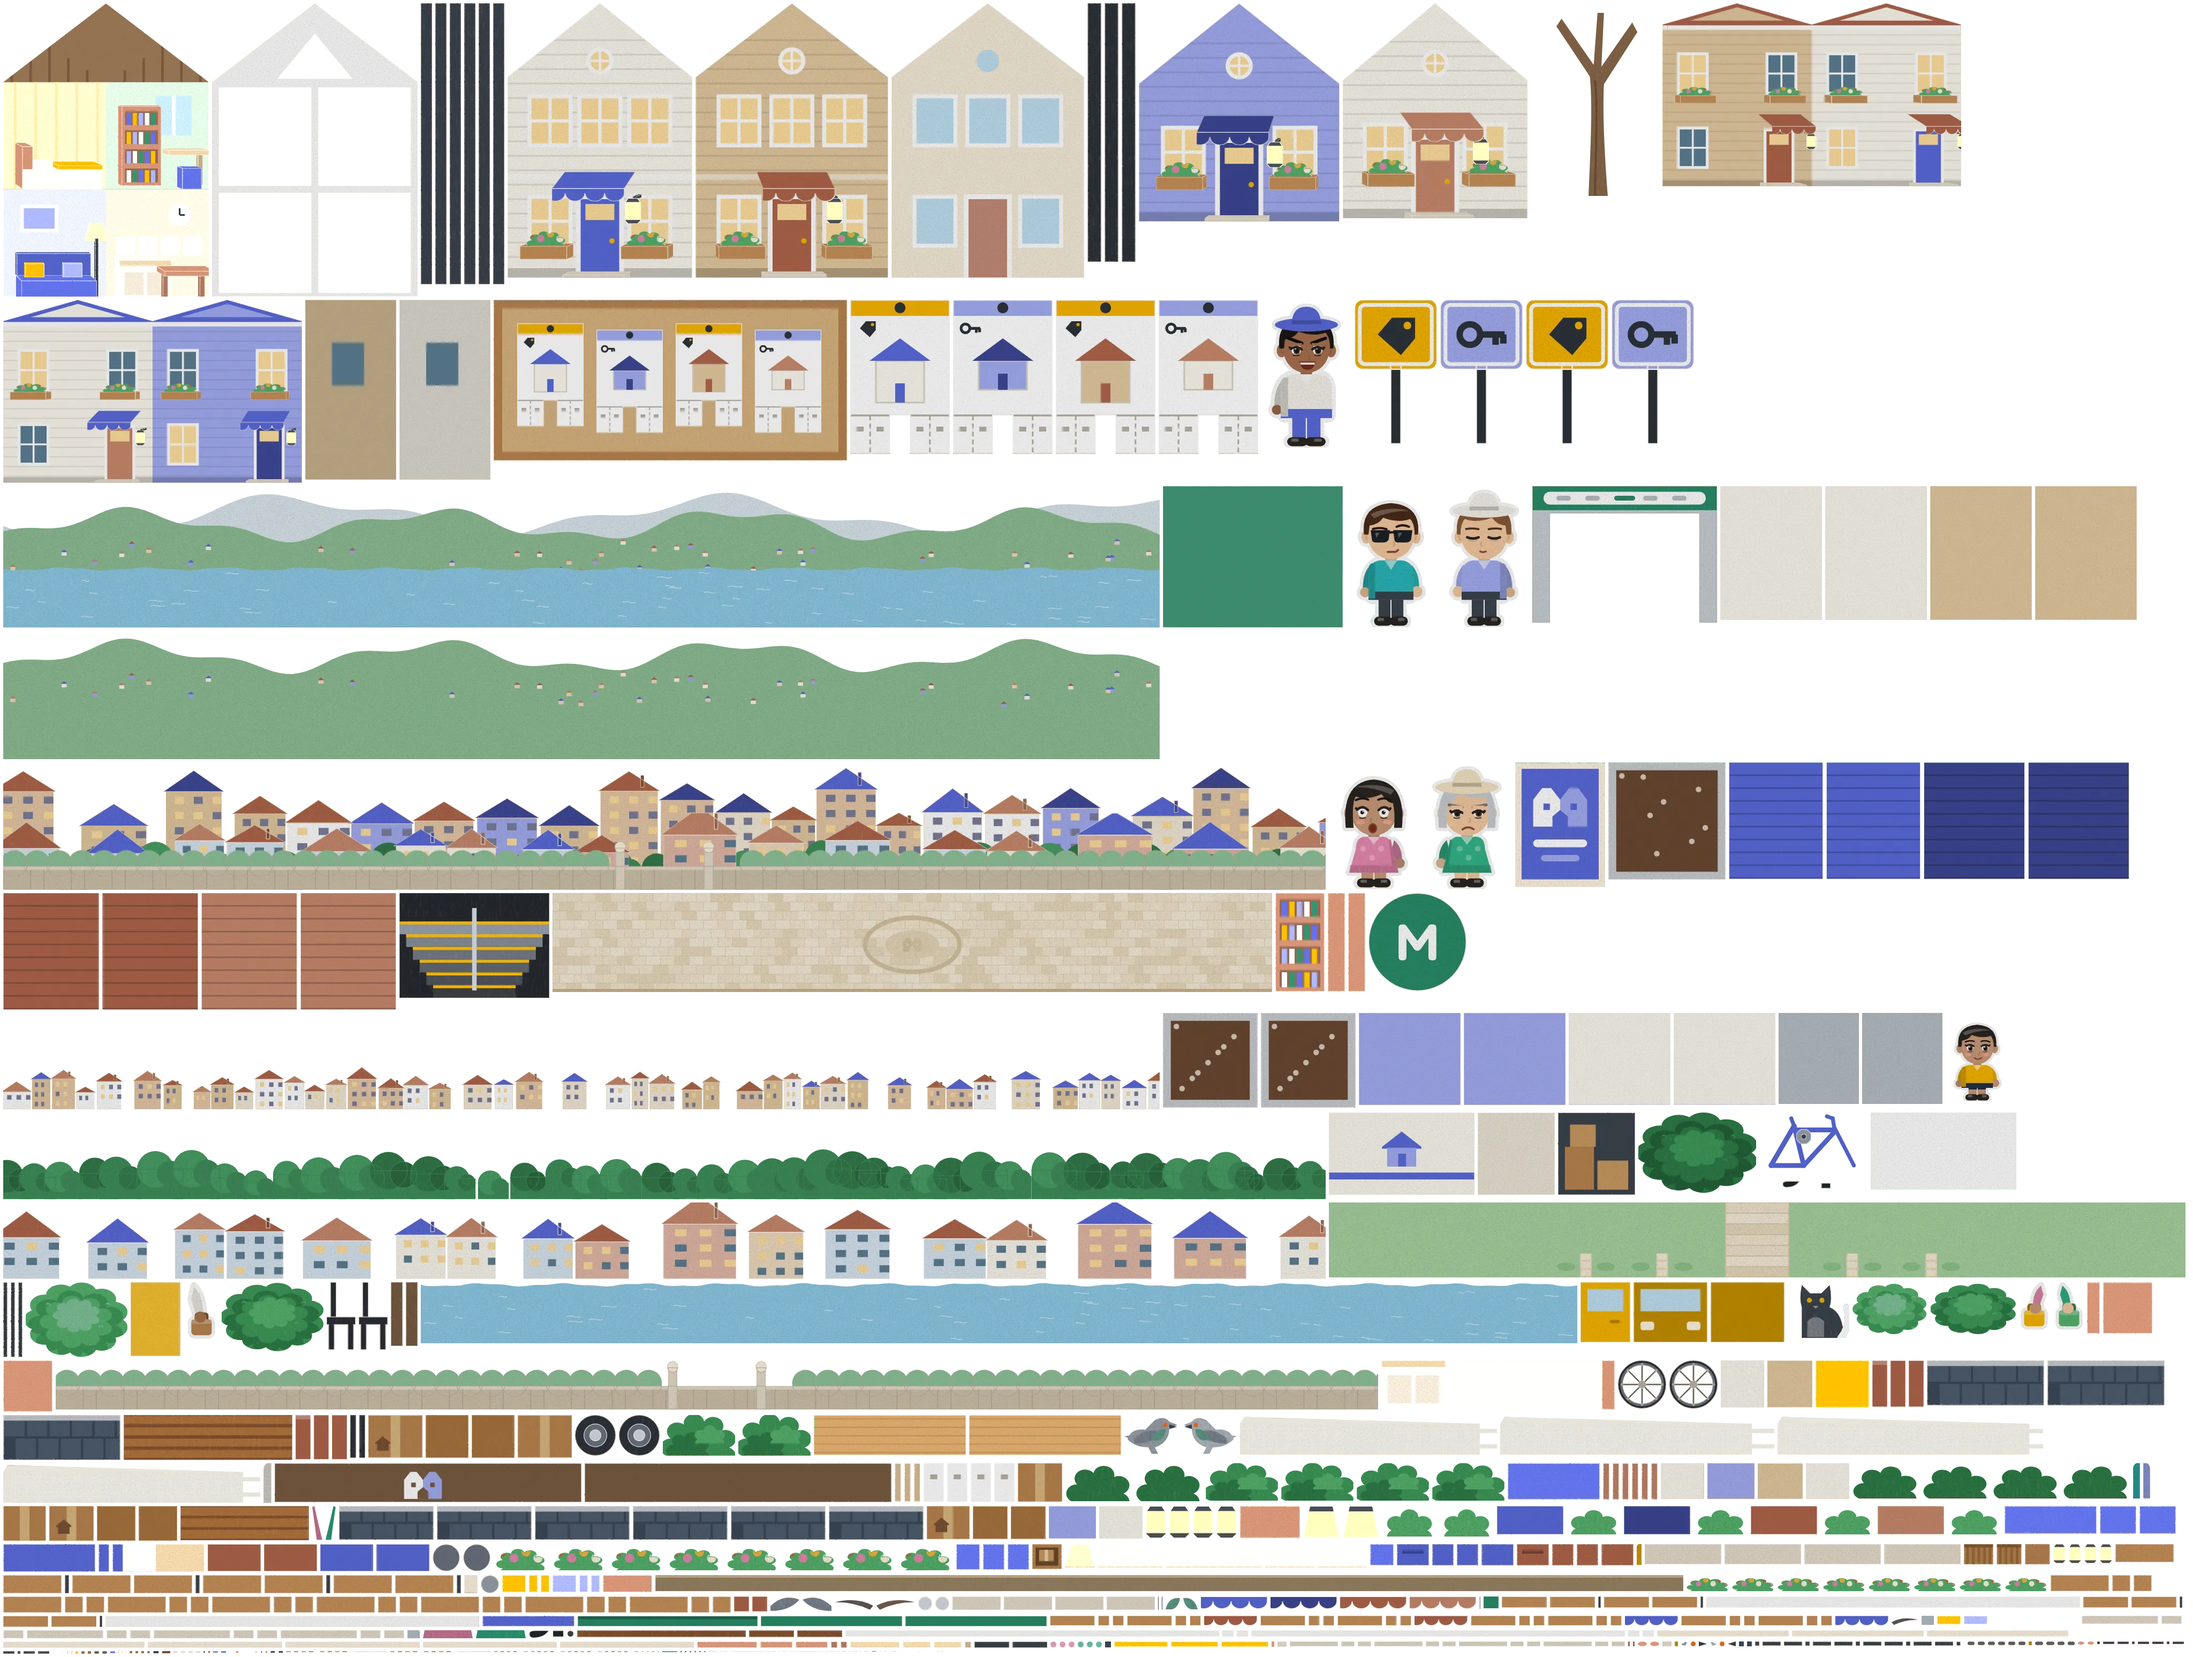
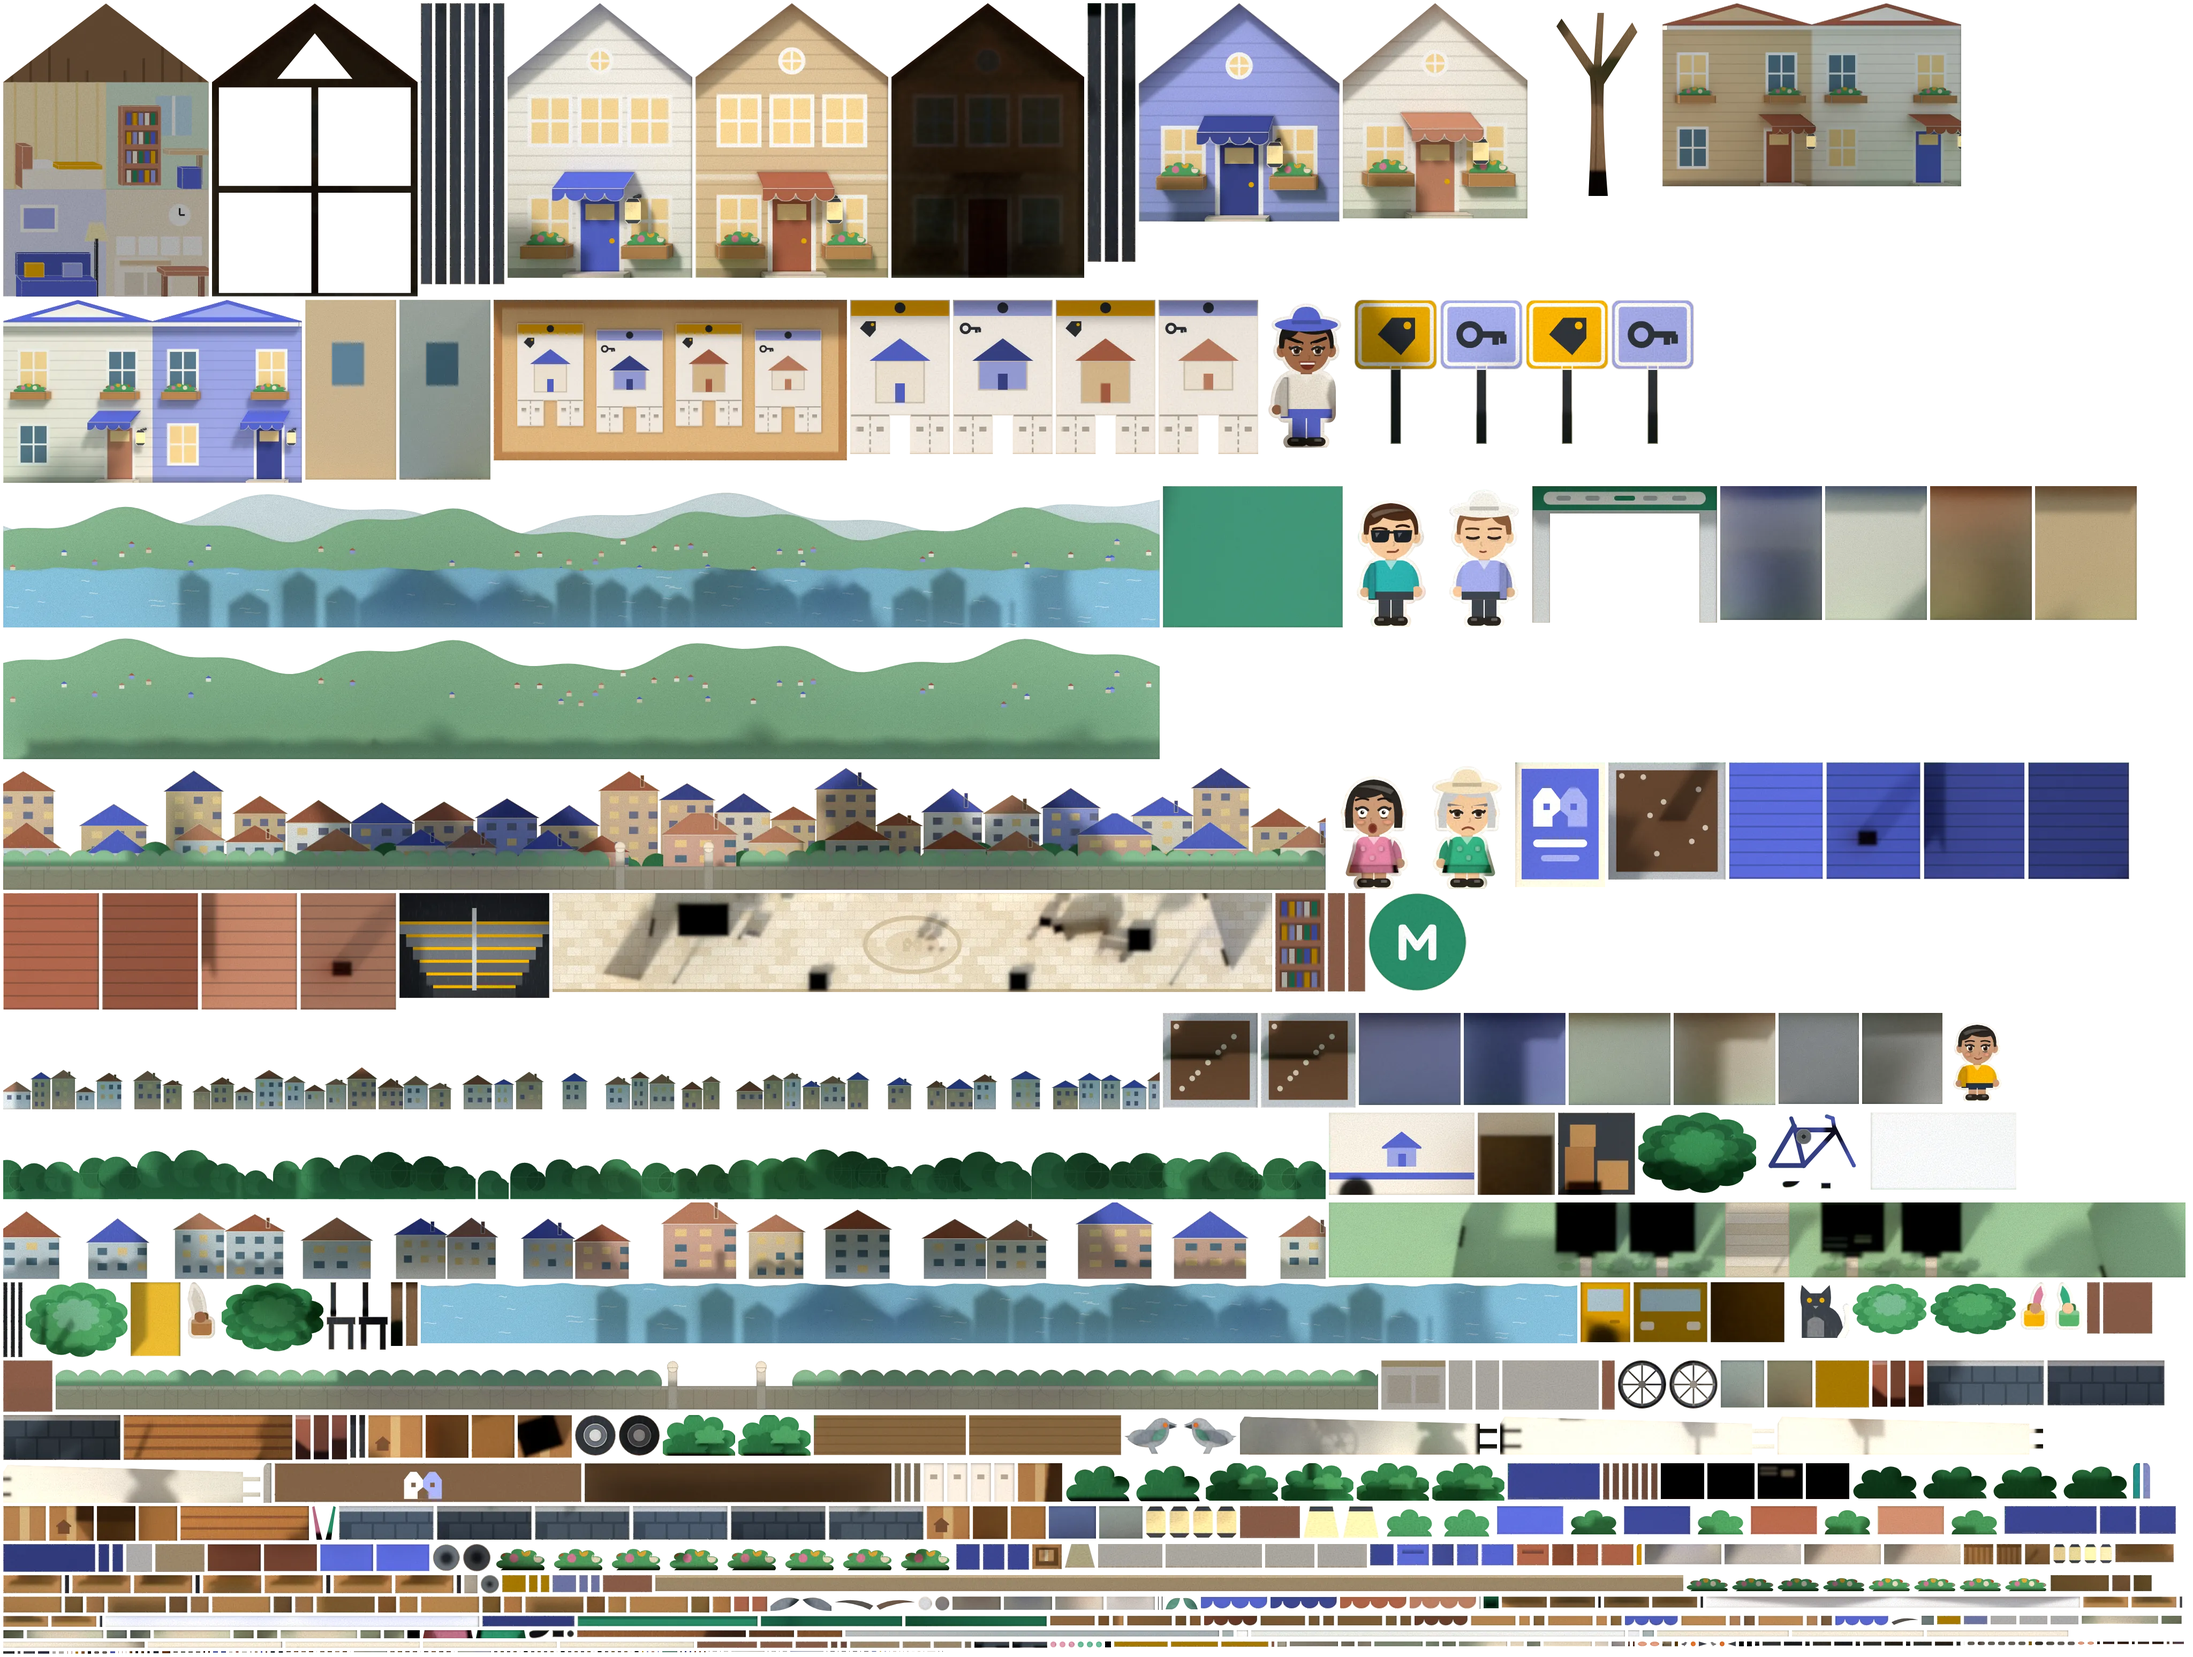
papercraft: first lit bake of the hometown square; light the opening front's inside
The baked art here is the first 192-sample bake, in which the inside of the
swung-open front is still dark. The fix is in the scene; a re-bake follows.

Claude-Session: https://claude.ai/code/session_01YPNotSbbJKW5yf9dC5KJqA

diff --git a/game/src/art/scenes/hometown.ts b/game/src/art/scenes/hometown.ts
@@ -166,7 +166,8 @@ function home(h: Home, opens = false): Panel[] {
   const walls = box({ id: `${id}-body`, x, z: HZ - HD / 2, w, h: wall, d: HD, stock: 'cover', c, side: c, noTop: true }).filter(p => !p.id.endsWith('front')).map(p => ({ ...p, density: 1 }));
   const chimney = h.chimney ? box({ id: `${id}-chimney`, x: x + w * .26, z: HZ - 60, y: wall + peak * .2, w: 28, h: peak * .9, d: 28, stock: 'cover', c: BRICK, front: `<rect width="28" height="8" fill="${tone(BRICK, .3)}"/>`, density: 1 }) : [];
   // The inside of a front that opens: plain lining paper with the window and door openings, seen once it has swung round.
-  const inside: Panel[] = opens ? [{ id: `${id}-lining`, stock: 'cover', c: '#f6ecd8', w, h: H, o: [x0 + w, 0, HZ - .6], u: [-1, 0, 0], v: [0, 1, 0], density: 1.5, edge: 'cut',
+  // It is baked shut inside the house, where no light reaches, so it carries its own light like the rooms do.
+  const inside: Panel[] = opens ? [{ id: `${id}-lining`, stock: 'cover', c: '#f6ecd8', emit: .8, w, h: H, o: [x0 + w, 0, HZ - .6], u: [-1, 0, 0], v: [0, 1, 0], density: 1.5, edge: 'cut',
     mask: `<path d="M0 ${H}V${peak}L${w / 2} 0L${w} ${peak}V${H}Z" fill="#fff"/>`,
     print: `<rect width="${w}" height="${H}" fill="#f6ecd8"/>` + rows.flatMap((wy, k) => wx.map(a => [a, wy]).concat(k ? [[w / 2 - 23, wy]] : [])).map(([a, wy]) => `<rect x="${w - a - 51}" y="${H - wy - 61}" width="56" height="66" fill="#fff"/><rect x="${w - a - 46}" y="${H - wy - 56}" width="46" height="56" fill="#bfe0f2"/>`).join('') + `<rect x="${w / 2 - 30}" y="${H - 104}" width="60" height="104" fill="#fff"/><rect x="${w / 2 - 24}" y="${H - 98}" width="48" height="98" fill="${tone(door, .25)}"/><circle cx="${w / 2}" cy="${peak * .78}" r="14" fill="#bfe0f2"/>`,
     motion: { toy: 'home', at: [1], edge: 'right', deg: -112 } }] : [];
@@ -175,7 +176,7 @@ function home(h: Home, opens = false): Panel[] {
 // The rooms behind the front that opens: a lit back wall papered room by room, a floor between the storeys, and
 // furniture with real volume carved onto the wall. A cut frame at the opening shows the section, like a doll's house.
 function rooms(h: Home): Panel[] {
-  const { id, x, w, wall, peak } = h, x0 = x - w / 2, fh = wall / 2, H = wall + peak, bz = HZ - 64, lit = (p: Panel): Panel => ({ ...p, emit: .42 });
+  const { id, x, w, wall, peak } = h, x0 = x - w / 2, fh = wall / 2, H = wall + peak, bz = HZ - 64, lit = (p: Panel): Panel => ({ ...p, emit: .62 });
   const back: Panel = lit({ id: `${id}-rooms`, stock: 'cover', c: '#fff7e6', w, h: H, o: [x0, 0, bz], u: [1, 0, 0], v: [0, 1, 0], density: 1.6, edge: 'fold',
     mask: `<path d="M0 ${H}V${peak}L${w / 2} 0L${w} ${peak}V${H}Z" fill="#fff"/>`,
     print: `<rect width="${w}" height="${H}" fill="#8a6a4c"/>${Array.from({ length: 6 }, (_, i) => `<path d="M${w / 2 - i * 22} ${peak - i * 14}V${peak}M${w / 2 + i * 22} ${peak - i * 14}V${peak}" stroke="#6e523a" stroke-width="3"/>`).join('')}` +
@@ -203,7 +204,7 @@ function rooms(h: Home): Panel[] {
   // The floor between the storeys, and the ground floor's boards.
   const floor = (k: string, y: number, c: string): Panel => lit({ id: `${id}-${k}`, stock: 'cover', c, w: w - 4, h: 62, o: [x0 + 2, y, HZ - 2], u: [1, 0, 0], v: [0, 0, -1], edge: 'fold', density: 1.2, print: Array.from({ length: 5 }, (_, i) => `<path d="M0 ${i * 13 + 6}H${w}" stroke="${tone(c, -.12)}" stroke-width="2"/>`).join('') });
   // The section: the walls' and floors' cut edges, seen at the opening.
-  const section: Panel = { id: `${id}-section`, stock: 'cover', c: '#fff', w, h: H, o: [x0, 0, HZ - 1], u: [1, 0, 0], v: [0, 1, 0], edge: 'cut', density: 1.6,
+  const section: Panel = { id: `${id}-section`, stock: 'cover', c: '#fff', emit: .8, w, h: H, o: [x0, 0, HZ - 1], u: [1, 0, 0], v: [0, 1, 0], edge: 'cut', density: 1.6,
     mask: `<path fill-rule="evenodd" d="M0 ${H}V${peak}L${w / 2} 0L${w} ${peak}V${H}Z M8 ${H - 4}V${peak + fh + 4}H${w / 2 - 4}V${H - 4}Z M${w / 2 + 4} ${H - 4}V${peak + fh + 4}H${w - 8}V${H - 4}Z M8 ${peak + fh - 4}V${peak + 6}H${w / 2 - 4}V${peak + fh - 4}Z M${w / 2 + 4} ${peak + fh - 4}V${peak + 6}H${w - 8}V${peak + fh - 4}Z M${w / 2 - 44} ${peak - 4}L${w / 2} ${peak * .38}L${w / 2 + 44} ${peak - 4}Z" fill="#fff"/>` };
   return [back, ...furniture, floor('floor-up', fh, '#c99a62'), floor('floor-down', 1, '#c99a62'), section];
 }
